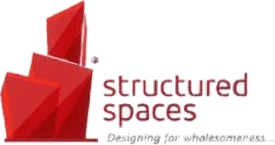
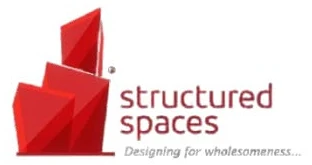
Grand Table: 18 new voices, participating institutions, countries, companies and media partners
Adds 18 speakers (600x800 face-centred webp), refreshes Taqwa and Namrata, replaces institution logos (7, fake checkerboard removed from the Police crest), adds a Participating Countries section with 14 flat SVG flags (flag-icons), swaps the company list to the client's 18 (Jet Black Holdings as a text wordmark, FertiClinic/DTOPAZ/doTERRA/Knightsbridge/Sidra removed) and moves media partners to white tiles with 15 new logos.

diff --git a/src/data/grand-table-event.ts b/src/data/grand-table-event.ts
@@ -57,7 +57,10 @@ export type Speaker = {
 /** Consistent fallback so every speaker/dignitary card shows a second line, even before a formal title is confirmed. */
 export const SPEAKER_FALLBACK_TITLE = "Voices at the Table";
 
-export type CompanyLogo = { name: string; src: string; width: number; height: number; displayHeight: number };
+/** `wordmark` renders a text tile (two lines) when a brand has no logo file. */
+export type CompanyLogo = { name: string; src: string; width: number; height: number; displayHeight: number; wordmark?: string[] };
+
+export type Country = { name: string; /** ISO 3166-1 alpha-2, lowercase: matches /images/grand-table/flags/<code>.svg */ code: string };
 
 const person = (dir: string, slug: string, name: string, title: string): Speaker => ({
   name,
@@ -518,10 +521,10 @@ export const event = {
     person(
       "speakers",
       "taqwa-abdul-monem-el-tahir",
-      "Taqwa Abdul Monem el Tahir",
+      "Taqwa Abdul Monem El Tahir",
       "Director of Corporate Relations & Strategic Partnerships, Flott Middle East",
     ),
-    person("speakers", "namrata-lodhiya", "Namrata Lodhiya", "Founder & CEO, Minasu International"),
+    person("speakers", "namrata-lodhiya", "Namrata Lodhiya", "Founder, Meenasu Foodstuff International"),
     person("speakers", "hansatu-zannah", "H.E. Hajiya Hansatu Zannah", "Entrepreneur | Philanthropist"),
     person("speakers", "magdy-al-sheikh", "Magdy Al Sheikh", "CEO/Founder, Armada Internationals Dubai"),
     person("speakers", "maroua-kotti", "Maroua Kotti", "CEO, Harmonie Medicale Tunisia"),
@@ -533,6 +536,29 @@ export const event = {
     ),
     person("speakers", "daibah-garba", "Barrister Mrs Daibah Garba", "Legal Consultant, Federal Ministry of Justice"),
     person("speakers", "aisha-bilal", "Aisha Bilal", "Founder/CEO, Structured Spaces"),
+    person("speakers", "mohammad-hassan-mahmoud", "Mohammad Hassan Mahmoud", "Head of Sales, Deniz Properties UAE"),
+    person("speakers", "osama-slimi", "Osama Slimi", "Sales Manager, Deniz Properties UAE"),
+    person("speakers", "giovanni-umberto-calabrese", "Giovanni Umberto Calabrese", "President, Board of Directors, Coopselios Group"),
+    person("speakers", "danilo-iervolino", "Danilo Iervolino", "Founder, Università Telematica Pegaso"),
+    person(
+      "speakers",
+      "gimba-kakanda",
+      "Gimba Kakanda",
+      "Senior Special Assistant to the President on Research and Analytics, Office of the Vice President",
+    ),
+    person("speakers", "ini-abimbola", "Dr. Mrs. Ini Abimbola", SPEAKER_FALLBACK_TITLE),
+    person("speakers", "idris-olohunmibe", "Idris Olohunmibe", "Chairman, Nigerian Communications Commission (NCC)"),
+    person("speakers", "aisha-babangida", "Hajiya Aisha Babangida", "Chairperson, Better Life Programme for the African Rural Woman"),
+    person("speakers", "agbaoye-kola-kareem", "Agbaoye Kola Kareem", "Chairman, Shoreline Group"),
+    person("speakers", "mashood-kayode-akiolu", "Prince Mashood Kayode Akiolu", "Member, House of Representatives, Lagos"),
+    person("speakers", "aisha-salisu", "Aisha Salisu", "Founder, March Energy and Oil"),
+    person("speakers", "abike-dabiri-erewa", "Hon. Dr. Abike Dabiri-Erewa, OON", "Chairman/CEO, Nigerians in Diaspora Commission (NIDCOM)"),
+    person("speakers", "debela-sisay-nigusie", "Debela Sisay Nigusie", "Founder, Dairy Sheep & Goats Farm, Ethiopia"),
+    person("speakers", "tigist-mamuye-kebede", "Tigist Mamuye Kebede", "Founder, Ilu General Trading; GM, Meseret Amanuel & Friends"),
+    person("speakers", "carlos-odili", "Dr. Hon. Engr. Chief Carlos Odili", "Chairman, Odili Oil & Gas"),
+    person("speakers", "nadia-afzal", "Nadia Afzal", "Elite Real Estate Advisor"),
+    person("speakers", "anita-mawussime-djissenou", "Anita Mawussime Djissenou", "Founder, Maison Anita"),
+    person("speakers", "rita-chioma-ogbuagu", "Rita Chioma Ogbuagu", "Co-Founder & CEO, Flott Beauty PH"),
   ] satisfies Speaker[],
 
   dignitaries: [
@@ -544,29 +570,72 @@ export const event = {
   ] satisfies Speaker[],
 
   companies: [
-    { name: "Horrie Autos Limited", src: "/images/grand-table/companies/horrie-autos.webp", width: 282, height: 141, displayHeight: 57 },
-    { name: "Structured Spaces", src: "/images/grand-table/companies/structured-spaces.webp", width: 275, height: 145, displayHeight: 58 },
-    { name: "FertiClinic Ras Al Khaimah", src: "/images/grand-table/companies/ferticlinic-rak.webp", width: 403, height: 98, displayHeight: 39 },
-    { name: "DTOPAZ Jewellery", src: "/images/grand-table/companies/dtopaz-jewellery.webp", width: 106, height: 199, displayHeight: 80 },
-    { name: "Meenasu Foodstuff Trading LLC", src: "/images/logo-meenasu.png", width: 1152, height: 1144, displayHeight: 75 },
-    { name: "TourMate", src: "/images/grand-table/companies/tourmate.webp", width: 342, height: 115, displayHeight: 46 },
-    { name: "doTERRA", src: "/images/grand-table/companies/doterra.webp", width: 252, height: 158, displayHeight: 63 },
-    { name: "Knightsbridge Group", src: "/images/grand-table/companies/knightsbridge-group.webp", width: 280, height: 142, displayHeight: 57 },
-    { name: "Sidra Healthcare", src: "/images/grand-table/companies/sidra-healthcare.webp", width: 284, height: 140, displayHeight: 56 },
+    { name: "Futuristic Homes", src: "/images/grand-table/companies/futuristic-homes.webp", width: 600, height: 249, displayHeight: 52 },
+    { name: "Horrie Autos Limited", src: "/images/grand-table/companies/horrie-autos.webp", width: 600, height: 302, displayHeight: 57 },
+    { name: "Structured Spaces", src: "/images/grand-table/companies/structured-spaces.webp", width: 312, height: 165, displayHeight: 59 },
+    { name: "Università Telematica Pegaso", src: "/images/grand-table/companies/pegaso.webp", width: 600, height: 170, displayHeight: 42 },
+    { name: "March Energy Nigeria Limited", src: "/images/grand-table/companies/march-energy.webp", width: 600, height: 237, displayHeight: 51 },
+    { name: "Coopselios", src: "/images/grand-table/companies/coopselios.webp", width: 600, height: 158, displayHeight: 40 },
+    { name: "Meenasu Foodstuff Trading LLC", src: "/images/grand-table/companies/meenasu-foodstuff.webp", width: 600, height: 555, displayHeight: 76 },
     { name: "Carlos Odili Oil and Gas Ltd.", src: "/images/grand-table/companies/carlos-odili-oil-gas.webp", width: 800, height: 146, displayHeight: 48 },
+    { name: "FiatMatch", src: "/images/grand-table/companies/fiatmatch.webp", width: 370, height: 111, displayHeight: 44 },
+    { name: "Alcee & Alcina General Services", src: "/images/grand-table/companies/alcee-alcina.webp", width: 600, height: 237, displayHeight: 45 },
+    { name: "TourMate", src: "/images/grand-table/companies/tourmate.webp", width: 600, height: 181, displayHeight: 44 },
+    { name: "Deniz Properties", src: "/images/grand-table/companies/deniz-properties.webp", width: 600, height: 181, displayHeight: 44 },
+    { name: "Jet Black Holdings", src: "", width: 0, height: 0, displayHeight: 0, wordmark: ["JET BLACK", "HOLDINGS"] },
+    { name: "Moniepoint", src: "/images/grand-table/companies/moniepoint.webp", width: 600, height: 149, displayHeight: 37 },
+    { name: "SurgeSquare", src: "/images/grand-table/companies/surgesquare.webp", width: 600, height: 285, displayHeight: 56 },
+    { name: "Glotrade Platform Limited", src: "/images/grand-table/companies/glotrade.webp", width: 600, height: 450, displayHeight: 62 },
+    { name: "African Mineral Rating & Exchange Ltd (AME)", src: "/images/grand-table/companies/ame.webp", width: 600, height: 275, displayHeight: 49 },
+    { name: "Flott Beauty", src: "/images/grand-table/companies/flott-beauty.webp", width: 600, height: 599, displayHeight: 76 },
   ] satisfies CompanyLogo[],
 
   mediaPartners: [
-    { name: "Ladies in Business Magazine Global (LBMG)", src: "/images/grand-table/companies/lbmg.webp", width: 370, height: 127, displayHeight: 64 },
-    { name: "BAAM Network Limited", src: "/images/grand-table/companies/baam-network.webp", width: 800, height: 800, displayHeight: 72 },
+    { name: "TVC News", src: "/images/grand-table/media/tvc-news.webp", width: 462, height: 94, displayHeight: 24 },
+    { name: "Channels Television", src: "/images/grand-table/media/channels-television.webp", width: 600, height: 591, displayHeight: 62 },
+    { name: "Arise News", src: "/images/grand-table/media/arise-news.webp", width: 600, height: 427, displayHeight: 57 },
+    { name: "AIT (Africa Independent Television)", src: "/images/grand-table/media/ait.webp", width: 600, height: 545, displayHeight: 62 },
+    { name: "Trust TV", src: "/images/grand-table/media/trust-tv.webp", width: 417, height: 280, displayHeight: 56 },
+    { name: "NTA (Nigerian Television Authority)", src: "/images/grand-table/media/nta.webp", width: 600, height: 229, displayHeight: 42 },
+    { name: "BBC Hausa", src: "/images/grand-table/media/bbc-hausa.webp", width: 600, height: 338, displayHeight: 51 },
+    { name: "Trust Radio", src: "/images/grand-table/media/trust-radio.webp", width: 600, height: 162, displayHeight: 32 },
+    { name: "Radio Nigeria (FRCN)", src: "/images/grand-table/media/radio-nigeria.webp", width: 129, height: 129, displayHeight: 56 },
+    { name: "RFI", src: "/images/grand-table/media/rfi.webp", width: 600, height: 600, displayHeight: 62 },
+    { name: "NAN (News Agency of Nigeria)", src: "/images/grand-table/media/nan.webp", width: 600, height: 369, displayHeight: 53 },
+    { name: "Daily Trust", src: "/images/grand-table/media/daily-trust.webp", width: 600, height: 95, displayHeight: 19 },
+    { name: "Punch", src: "/images/grand-table/media/punch.webp", width: 500, height: 179, displayHeight: 41 },
+    { name: "The Whistler", src: "/images/grand-table/media/the-whistler.webp", width: 600, height: 142, displayHeight: 28 },
+    { name: "Daily Times", src: "/images/grand-table/media/daily-times.webp", width: 492, height: 78, displayHeight: 19 },
+    { name: "Ladies in Business Magazine Global (LBMG)", src: "/images/grand-table/companies/lbmg.webp", width: 370, height: 127, displayHeight: 40 },
+    { name: "BAAM Network Limited", src: "/images/grand-table/companies/baam-network.webp", width: 800, height: 800, displayHeight: 62 },
   ] satisfies CompanyLogo[],
 
   institutionalPartners: [
-    { name: "Consulate General of Nigeria, Dubai", src: "/images/grand-table/partners/nigeria-consulate-dubai.webp", width: 1355, height: 1367, displayHeight: 76 },
-    { name: "Federal Ministry of Women Affairs", src: "/images/grand-table/partners/ministry-women-affairs.webp", width: 400, height: 400, displayHeight: 76 },
-    { name: "Federal Ministry of Industry, Trade & Investment", src: "/images/grand-table/partners/ministry-industry-trade-investment.webp", width: 1046, height: 293, displayHeight: 52 },
-    { name: "Ministry of Foreign Affairs", src: "/images/grand-table/partners/ministry-foreign-affairs.webp", width: 512, height: 512, displayHeight: 76 },
+    { name: "Consulate General of Nigeria, Dubai", src: "/images/grand-table/partners/nigeria-consulate-dubai.webp", width: 600, height: 557, displayHeight: 78 },
+    { name: "Federal Ministry of Industry, Trade & Investment", src: "/images/grand-table/partners/ministry-industry-trade-investment.webp", width: 600, height: 168, displayHeight: 36 },
+    { name: "Federal Ministry of Foreign Affairs", src: "/images/grand-table/partners/ministry-foreign-affairs.webp", width: 512, height: 512, displayHeight: 78 },
+    { name: "Federal Ministry of Women Affairs", src: "/images/grand-table/partners/ministry-women-affairs.webp", width: 400, height: 400, displayHeight: 78 },
+    { name: "Nigeria Police Force", src: "/images/grand-table/partners/nigeria-police-force.webp", width: 600, height: 668, displayHeight: 78 },
+    { name: "Police Officers' Wives Association (POWA)", src: "/images/grand-table/partners/powa.webp", width: 541, height: 499, displayHeight: 78 },
+    { name: "Rural Electrification Agency (REA)", src: "/images/grand-table/partners/rural-electrification-agency.webp", width: 600, height: 314, displayHeight: 61 },
   ] satisfies CompanyLogo[],
+
+  countries: [
+    { name: "Nigeria", code: "ng" },
+    { name: "UAE", code: "ae" },
+    { name: "India", code: "in" },
+    { name: "Tunisia", code: "tn" },
+    { name: "Ethiopia", code: "et" },
+    { name: "Colombia", code: "co" },
+    { name: "Pakistan", code: "pk" },
+    { name: "Niger", code: "ne" },
+    { name: "Cameroon", code: "cm" },
+    { name: "Canada", code: "ca" },
+    { name: "USA", code: "us" },
+    { name: "Sudan", code: "sd" },
+    { name: "United Kingdom", code: "gb" },
+    { name: "Egypt", code: "eg" },
+  ] satisfies Country[],
 
   contactDetails: {
     email: "info@flottwomenscircle.com",
@@ -678,8 +747,10 @@ export const event = {
     companies: {
       eyebrow: "At the Table",
       heading: "In Partnership with",
-      companiesLabel: "Participating companies",
-      mediaLabel: "Media partner",
+      institutionsLabel: "Participating Institutions",
+      countriesLabel: "Participating Countries",
+      companiesLabel: "Participating Companies",
+      mediaLabel: "Media Partners",
     },
     speakers: {
       eyebrow: "Voices at the Table",
